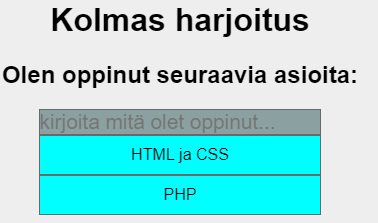
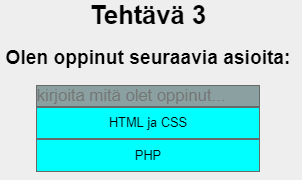
react harj1 exit

diff --git a/react/harjoitukset1.md b/react/harjoitukset1.md
@@ -15,28 +15,32 @@ Tee uusi komponentti, joka tulostaa ruudulle ensimmäisellä tunnilla opitut uud
 
 Refaktoroi koodi niin, että listaelementti tehdään apukomponentin avulla (käytä parametreja props).
 
-### Harjoitus 1
+### Tehtävä 1
 
 Tee komponentti, joka tulostaa ruudulle parametreina (props) annetut tiedot. Kutsu komponenttia kaksi kertaa eri tiedoilla.
 
-![harjoitus1](./img/tiedot.PNG)
+![tehtävä 1](./img/tiedot.PNG)
 
-### Harjoitus 2
+### Tehtävä 2
 
 Tee komponentti, joka tulostaa ruudulle taulukon muodossa parametrina annetun listan (array) kurssiolioita.
 
 Vinkki: tee alikomponentti, joka tekee yhden rivin.
 
-![harjoitus2](./img/kurssit.PNG)
+![tehtävä 2](./img/kurssit.PNG)
 
-### Harjoitukset 3
+### Tehtävä 3
 
 Tee komponentti, joka tulostaa ruudulle alekkain parametrina annetut taidot (array). Sijoita ylimmäiseksi input-kenttä, jonka avulla voi lisätä uuden taidon listaan viimeiseksi.
 
-![harjoitus3](./img/oppinut.PNG)
+![tehtävä 3](./img/oppinut.PNG)
 
-### Harjoitukset 4
+### Tehtävä 4
 
 Lisää sivulle napit, joita painamalla tehtävä osion saa piiloon/näkyville.
 
-![harjoitus4](./img/piilota.PNG)
+![tehtävä 4](./img/piilota.PNG)
+
+### Tehtävä 5
+
+Muokkaa .css - tiedostoa, että elementit myös näyttävät hyvältä.

diff --git a/react/index.md b/react/index.md
@@ -14,6 +14,9 @@ Materiaalia, joka täydentyy kurssin edetessä...
 - [Komponentin tila ja tapahtuman käsittely](https://fullstackopen.com/osa1/komponentin_tila_ja_tapahtumankasittely)
 - [Monimutkaisempi tila, debuggaus](https://fullstackopen.com/osa1/monimutkaisempi_tila_reactin_debuggaus)
 
+---
+- [Harjoituksia 1](./harjoitukset1.html)
+
 ### Palvelimen kanssa kommunikointi
 
 - [Kokoelmien renderöinti ja moduulit](https://fullstackopen.com/osa2/kokoelmien_renderointi_ja_moduulit)
